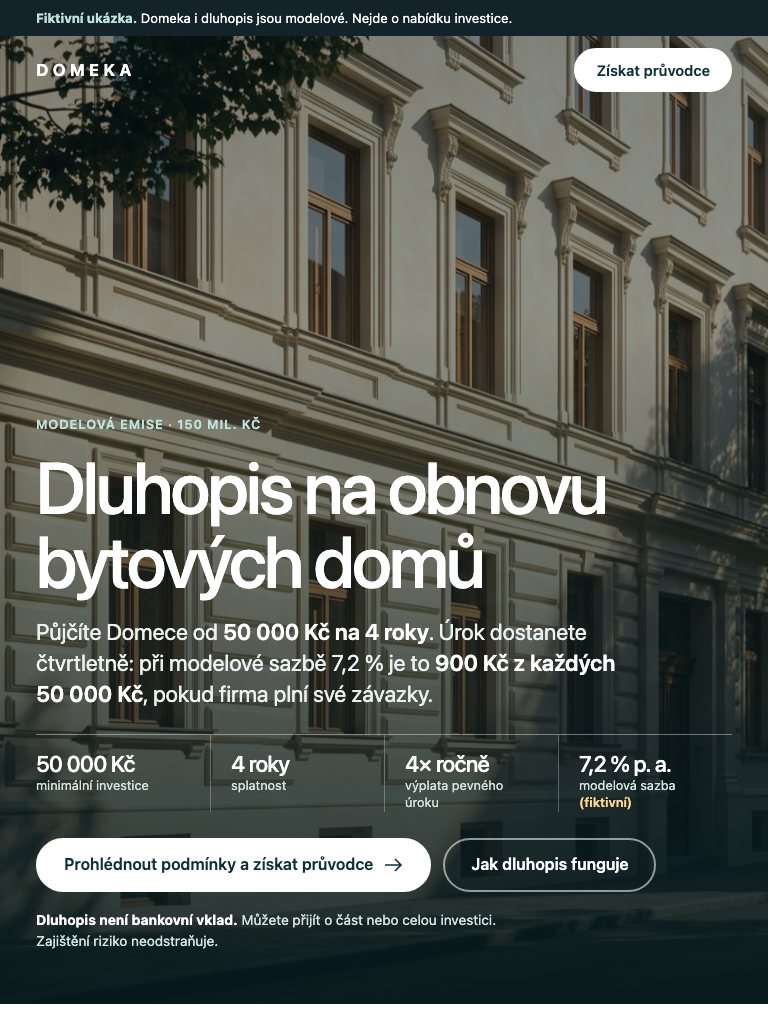
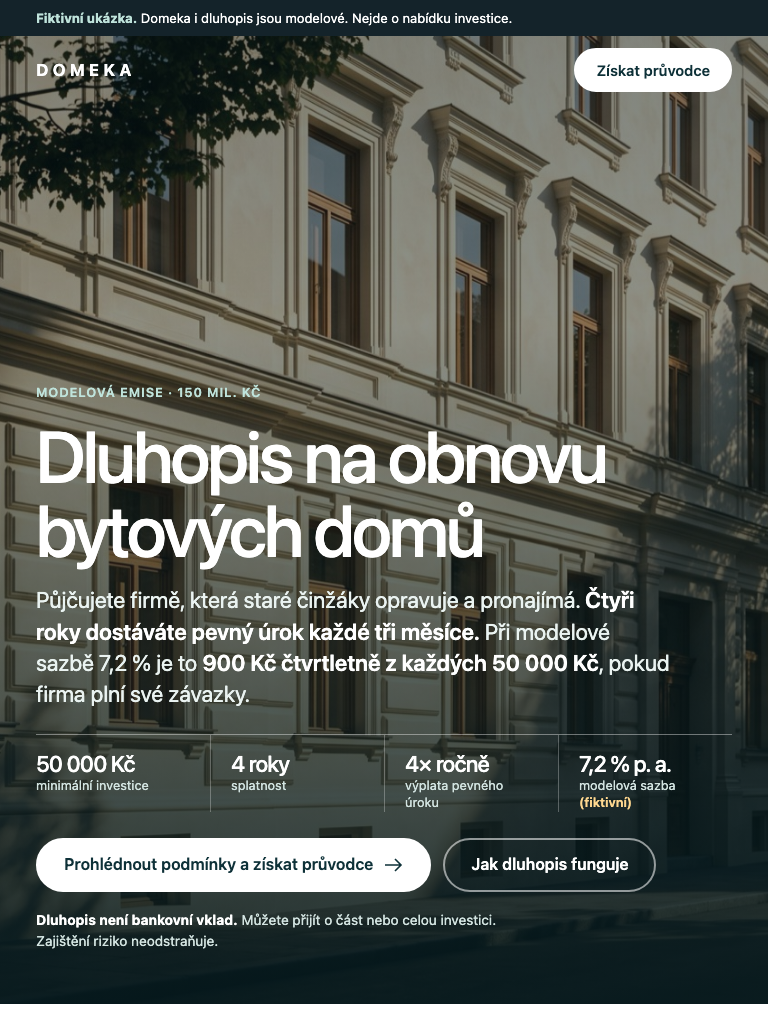
Odstraněna fotka interiéru, přepsané texty, sekce Co kupujete bez fotografie

Changed region(s): [[0.0312, 0.375, 0.875, 0.6875]]

diff --git a/index.html b/index.html
@@ -83,12 +83,15 @@ nav.main a.link:hover{text-decoration:underline}
 
 /* ---------- Co kupujete ---------- */
 .split{display:grid;gap:36px}
-@media (min-width:992px){.split{grid-template-columns:5fr 7fr;gap:80px;align-items:stretch}}
-.photo{margin:0;border-radius:var(--radius);overflow:hidden;background:var(--support);min-height:320px}
-.photo img{width:100%;height:100%;object-fit:cover}
-.photo.tall{aspect-ratio:4/5}
-@media (min-width:992px){.photo.tall{aspect-ratio:auto;height:100%;min-height:560px}}
+@media (min-width:992px){.split{grid-template-columns:5fr 7fr;gap:80px;align-items:start}}
 .head h2{margin-bottom:20px}
+.gt{display:grid;gap:0;margin-top:30px;border-top:1px solid var(--ink)}
+.gt>div{padding:18px 0;border-bottom:1px solid var(--line)}
+.gt h3{font-size:1rem;margin-bottom:8px}
+.gt ul{margin:0;padding:0;list-style:none;display:grid;gap:4px}
+.gt li{color:var(--muted);font-size:1rem;padding-left:18px;position:relative}
+.gt li:before{content:"";position:absolute;left:0;top:.62em;width:8px;height:2px;background:var(--ocean)}
+@media (min-width:640px){.gt{grid-template-columns:1fr 1fr}.gt>div:first-child{padding-right:24px;border-right:1px solid var(--line)}.gt>div+div{padding-left:24px}}
 .ledger{margin:30px 0 0;border-top:1px solid var(--ink)}
 .ledger .row{display:grid;gap:3px;padding:16px 0;border-bottom:1px solid var(--line)}
 .ledger dt{font-size:.88rem;color:var(--muted)}
@@ -252,7 +255,7 @@ footer{padding:52px 0 40px;border-top:1px solid var(--line)}
   <div class="wrap hero-body">
     <p class="eyebrow">Modelová emise · 150 mil. Kč</p>
     <h1 id="h1">Dluhopis na obnovu bytových domů</h1>
-    <p class="sub">Půjčíte Domece od <b>50 000 Kč na 4 roky</b>. Úrok dostanete čtvrtletně: při modelové sazbě 7,2 % je to <b>900 Kč z každých 50 000 Kč</b>, pokud firma plní své závazky.</p>
+    <p class="sub">Půjčujete firmě, která staré činžáky opravuje a pronajímá. <b>Čtyři roky dostáváte pevný úrok každé tři měsíce.</b> Při modelové sazbě 7,2 % je to <b>900 Kč čtvrtletně z každých 50 000 Kč</b>, pokud firma plní své závazky.</p>
     <ul class="facts" aria-label="Základní podmínky modelové emise">
       <li><b>50 000 Kč</b><span>minimální investice</span></li>
       <li><b>4 roky</b><span>splatnost</span></li>
@@ -271,12 +274,17 @@ footer{padding:52px 0 40px;border-top:1px solid var(--line)}
 <!-- ================= CO KUPUJETE ================= -->
 <section class="section" id="podminky" aria-labelledby="h-podm" style="border-top:0">
   <div class="wrap split">
-    <figure class="photo tall"><img src="assets/interior.jpg" width="640" height="893" loading="lazy" alt="Slunný obývací pokoj po rekonstrukci v činžovním domě, štuková římsa a dubová parketa"></figure>
     <div class="head">
       <p class="eyebrow">Co kupujete</p>
-      <h2 id="h-podm">Půjčku firmě, ne byt</h2>
-      <p class="lead">Dluhopis nedává podíl na firmě ani na domě. Dostanete úrok, a když vše dopadne dobře, na konci čtvrtého roku vám Domeka vrátí půjčených 50 000 Kč.</p>
-      <dl class="ledger">
+      <h2 id="h-podm">Jednoduchá půjčka, jasné podmínky</h2>
+      <p class="lead">Kupujete dluhopis: půjčujete peníze firmě Domeka. Nekupujete byt ani podíl ve firmě. Za půjčku dostáváte pevný úrok každé čtvrtletí a na konci čtvrtého roku má firma vrátit celou půjčenou částku.</p>
+      <div class="gt">
+        <div><h3>Co dostanete</h3><ul><li>Pevný úrok čtyřikrát ročně</li><li>Předem známý termín vrácení peněz</li><li>Zajištění nemovitostmi firmy</li></ul></div>
+        <div><h3>Co přebíráte vy</h3><ul><li>Riziko, že firma nezaplatí</li><li>Peníze vázané čtyři roky</li><li>Žádné pojištění jako u vkladu</li></ul></div>
+      </div>
+    </div>
+    <div>
+      <dl class="ledger" style="margin-top:0">
         <div class="row"><dt>Emitent</dt><dd>Domeka <span class="tag">fiktivní</span></dd></div>
         <div class="row"><dt>Cíl emise</dt><dd><strong>150 mil. Kč</strong></dd></div>
         <div class="row"><dt>Minimální investice</dt><dd><strong>50 000 Kč</strong></dd></div>
@@ -295,8 +303,8 @@ footer{padding:52px 0 40px;border-top:1px solid var(--line)}
   <img src="assets/courtyard.jpg" width="1600" height="893" loading="lazy" alt="Dvorek starého činžovního domu s lešením, oprýskanou omítkou a stohy řeziva">
   <div class="wrap">
     <p class="eyebrow" style="color:var(--signal)">Kam peníze jdou</p>
-    <h2 id="h-band">Do domů, které teprve potřebují opravu</h2>
-    <p>Domeka podle zadání nakupuje starší bytové domy, opravuje je a byty pronajímá. Z emise by financovala nákupy a stavební práce. Snímek ukazuje, jak taková oprava vypadá. Dům firmy to není.</p>
+    <h2 id="h-band">Z vašich peněz se stávají opravené domy</h2>
+    <p>Domeka kupuje starší činžáky, opravuje je a byty pronajímá. Z emise by platila nákupy a stavební práce: střechy, rozvody, okna. Nájemné z opravených bytů je zdroj, ze kterého firma platí úroky.</p>
   </div>
 </section>
 
@@ -304,25 +312,25 @@ footer{padding:52px 0 40px;border-top:1px solid var(--line)}
 <section class="section" id="jak" aria-labelledby="h-jak" style="border-top:0">
   <div class="wrap">
     <div class="sec-head">
-      <div><p class="eyebrow">Z čeho se platí</p><h2 id="h-jak">Co musí Domeka vybrat, aby vám zaplatila</h2></div>
-      <p class="lead">Odpověď na nejdůležitější otázku začátečníka: odkud se vezmou peníze na úroky. Počítáme s plně upsanou emisí a modelovými čísly.</p>
+      <div><p class="eyebrow">Z čeho se platí</p><h2 id="h-jak">Odkud se berou peníze na vaše úroky</h2></div>
+      <p class="lead">Nejčastější otázka začátečníka. Odpovídáme počtem, ne slibem. Počítáme s plně upsanou emisí a modelovými čísly.</p>
     </div>
     <div class="pay">
       <div>
-        <div class="stat"><div class="n">900 000 Kč<small>měsíčně</small></div><p><b>Úroky z 150 mil. Kč při sazbě 7,2 %</b> jsou 10,8 mil. Kč ročně. To musí firma vydělat ještě předtím, než zaplatí opravy, správu domů, pojištění a daně.</p></div>
-        <div class="stat"><div class="n">≈ 64 bytů<small>pronajatých</small></div><p>Při modelovém nájmu <b>14 000 Kč měsíčně</b> musí být pronajato asi 64 bytů, jen aby se zaplatily úroky. Ptejte se proto, kolik bytů firma opravdu vlastní a kolik jich má obsazených. V této ukázce to není známo.</p></div>
+        <div class="stat"><div class="n">900 000 Kč<small>měsíčně</small></div><p><b>Tolik by plně upsaná emise stála na úrocích.</b> Při sazbě 7,2 % je to 10,8 mil. Kč ročně. Tohle musí firma vydělat dřív, než zaplatí opravy, správu domů, pojištění a daně.</p></div>
+        <div class="stat"><div class="n">≈ 64 bytů<small>pronajatých</small></div><p>Při modelovém nájmu <b>14 000 Kč měsíčně</b> musí být pronajato asi 64 bytů, jen aby se pokryly úroky. Proto se vždy ptejte, kolik bytů firma vlastní a kolik z nich je obsazených. V této ukázce to není známo.</p></div>
       </div>
       <ol class="flow">
-        <li><h3>Půjčíte peníze</h3><p>Koupíte dluhopis od 50 000 Kč. Peníze jdou emitentovi.</p></li>
-        <li><h3>Domeka koupí a opraví dům</h3><p>Starší činžák, který potřebuje novou střechu, rozvody nebo okna.</p></li>
-        <li><h3>Byty pronajímá</h3><p>Nájemné je hlavní příjem, ze kterého firma platí vám i další náklady.</p></li>
-        <li><h3>Platí úrok a po 4 letech vrací jistinu</h3><p>Pokud jí příjmy a zajištění stačí. Záruka to není.</p></li>
+        <li><h3>Půjčíte firmě peníze</h3><p>Koupíte dluhopis od 50 000 Kč.</p></li>
+        <li><h3>Domeka koupí a opraví dům</h3><p>Starý činžák dostane novou střechu, rozvody a okna.</p></li>
+        <li><h3>Opravené byty pronajme</h3><p>Nájemné je hlavní příjem, ze kterého firma platí úroky i provoz domů.</p></li>
+        <li><h3>Vyplácí úrok, po 4 letech vrací peníze</h3><p>Pokud jí příjmy a zajištění stačí. Záruka to není.</p></li>
       </ol>
     </div>
 
     <div class="you" aria-labelledby="h-you">
       <div>
-        <p class="eyebrow" id="h-you">Váš příklad (model)</p>
+        <p class="eyebrow" id="h-you">Co by to znamenalo pro vás</p>
         <div class="big">900 Kč<small> čtvrtletně</small></div>
         <p class="fine" style="margin-top:14px">z modelových 50 000 Kč při sazbě 7,2 % p. a., před zdaněním a jen když emitent své závazky plní. Nejde o slib výplaty.</p>
       </div>
@@ -335,20 +343,20 @@ footer{padding:52px 0 40px;border-top:1px solid var(--line)}
     </div>
 
     <div class="compare">
-      <div><h3>Bankovní vklad</h3><p>Vklady v bance jsou pojištěny do zákonného limitu. Dluhopis takové pojištění nemá.</p></div>
-      <div><h3>Tento dluhopis</h3><p>Výplaty i jistina závisejí na hospodaření Domeky a na hodnotě zajištění. Spořicí účet nenahrazuje.</p></div>
+      <div><h3>Proč to není spořicí účet</h3><p>Vklady v bance jsou pojištěny do zákonného limitu. Dluhopis takové pojištění nemá.</p></div>
+      <div><h3>Za co dluhopis stojí</h3><p>Za vyšší úrok platíte vyšším rizikem. Výplaty i jistina závisejí na hospodaření Domeky a na hodnotě zajištění.</p></div>
     </div>
   </div>
 </section>
 
-<div class="cta-strip"><div class="wrap"><p>Než půjdete dál, zjistěte, na co se ptát před koupí firemního dluhopisu.</p><a class="btn" href="#pruvodce">Získat pět otázek <svg viewBox="0 0 18 14" fill="none" stroke="currentColor" stroke-width="1.6" aria-hidden="true"><path d="M0 7h16M10 1l6 6-6 6"/></svg></a></div></div>
+<div class="cta-strip"><div class="wrap"><p>Než se rozhodnete, vezměte si pět otázek, které si před firemním dluhopisem klade každý zkušený investor.</p><a class="btn" href="#pruvodce">Získat pět otázek <svg viewBox="0 0 18 14" fill="none" stroke="currentColor" stroke-width="1.6" aria-hidden="true"><path d="M0 7h16M10 1l6 6-6 6"/></svg></a></div></div>
 
 <!-- ================= RIZIKA ================= -->
 <section class="section" id="rizika" aria-labelledby="h-rizika" style="border-top:0">
   <div class="wrap">
     <div class="sec-head">
       <div><p class="eyebrow">Rizika</p><h2 id="h-rizika">Co se může pokazit</h2></div>
-      <p class="lead">Říkáme to dřív, než se rozhodnete. Zajištěný dluhopis neznamená dluhopis bez rizika.</p>
+      <p class="lead">Kdo o rizicích mluví dopředu, zaslouží si větší důvěru. Proto jsou tady, a ne v drobném písmu. Zajištěný dluhopis neznamená dluhopis bez rizika.</p>
     </div>
     <ol class="risks">
       <li><span class="n">01</span><h3>Domeka nemusí splatit</h3><p>Nájemné může klesnout, opravy se prodražit a byty zůstat prázdné. Pak nebude z čeho platit úroky ani jistinu.</p></li>
@@ -367,7 +375,7 @@ footer{padding:52px 0 40px;border-top:1px solid var(--line)}
     <div>
       <p class="eyebrow">Průvodce zdarma · návrh</p>
       <h2 id="h-mag" style="max-width:15ch">Pět otázek před nákupem firemního dluhopisu</h2>
-      <p class="lead" style="margin-top:20px">Dvě strany A4, které si můžete vzít k rozhovoru s poradcem nebo do banky. U každé otázky je napsáno, kde odpověď hledat a co je varovný signál.</p>
+      <p class="lead" style="margin-top:20px">Dvě strany A4 pro člověka, který dluhopis ještě nikdy nekoupil. U každé otázky je napsáno, kde odpověď hledat a co je varovný signál. Vezměte je s sebou k poradci, do banky nebo k dětem, které se v tom vyznají.</p>
       <div class="sheet" aria-label="Náhled první strany průvodce">
         <div class="st"><span>Pět otázek před nákupem</span><span>Strana 1</span></div>
         <ol>
@@ -385,8 +393,8 @@ footer{padding:52px 0 40px;border-top:1px solid var(--line)}
     <div class="card" id="form-card">
       <form id="step1" novalidate aria-labelledby="s1-title">
         <div class="stepper" aria-hidden="true"><span>Krok 1 ze 2</span><i class="on"></i><i></i></div>
-        <h3 id="s1-title" tabindex="-1">Dvě krátké otázky, bez kontaktu</h3>
-        <p>Podle odpovědí vám ukážeme, co dává smysl dál. E-mail nechceme.</p>
+        <h3 id="s1-title" tabindex="-1">Dvě otázky a víte, co dál</h3>
+        <p>Zabere to půl minuty. E-mail ani telefon teď nechceme.</p>
 
         <fieldset>
           <legend>S jakou částkou přibližně počítáte?</legend>
@@ -473,9 +481,9 @@ footer{padding:52px 0 40px;border-top:1px solid var(--line)}
 <!-- ================= ZÁVĚR ================= -->
 <section class="section closing" aria-labelledby="h-close" style="border-top:0">
   <div class="wrap inner">
-    <div><p class="eyebrow">Další krok</p><h2 id="h-close">Nejdřív podmínky. Rozhodnutí může počkat.</h2></div>
+    <div><p class="eyebrow">Další krok</p><h2 id="h-close">Nejdřív pochopit. Potom se rozhodnout.</h2></div>
     <div>
-      <p class="lead">Žádné odpočítávání ani časově omezené akce. Začněte pěti otázkami a vraťte se, až budete mít odpovědi.</p>
+      <p class="lead">Nikdo vás nehoní: žádné odpočítávání ani poslední volná místa. Začněte pěti otázkami a vraťte se, až budete mít odpovědi.</p>
       <div class="hero-actions"><a class="btn" href="#pruvodce">Získat průvodce</a><a class="btn ghost" href="#rizika">Přečíst rizika</a></div>
     </div>
   </div>
@@ -506,17 +514,17 @@ footer{padding:52px 0 40px;border-top:1px solid var(--line)}
     return t==='soon'?'qualified':'nurture';
   }
   var copy={
-    qualified:{kicker:'Možný zájem o konzultaci',title:'Vaše odpovědi odpovídají modelové investici',
-      text:'<p>Počítáte s částkou od 50 000 Kč a v blízké době. V ostré verzi by dávalo smysl projít podmínky s poradcem. Je to jen vaše volba a nic z toho nezakládá nárok na investici.</p>',
+    qualified:{kicker:'Možný zájem o konzultaci',title:'Máte předpoklady pro rozhovor s poradcem',
+      text:'<p>Počítáte s částkou od 50 000 Kč a v blízké době. Poradce by s vámi prošel podmínky, zajištění i rizika a odpověděl na otázky z průvodce. K ničemu vás to nezavazuje a rozhodnutí zůstává na vás.</p>',
       crm:'Kvalifikovaný kontakt: dobrovolně uvedl investiční kapacitu od 50 000 Kč a blízký termín. Další krok: nabídka konzultace, vždy s ověřením vhodnosti.'},
-    nurture:{kicker:'Vzdělávací kontakt',title:'Dobře, nemusíte spěchat',
-      text:'<p>Částka by modelové minimum splňovala, ale rozhodnutí je zatím daleko. Průvodce vám pomůže připravit se. Nebudeme vás tlačit k rozhovoru s poradcem.</p>',
+    nurture:{kicker:'Vzdělávací kontakt',title:'Správně, nespěchejte',
+      text:'<p>Částka by na minimum stačila, ale rozhodujete se dlouhodobě. V ostré verzi by přišel jen průvodce, bez telefonátů. Až budete chtít jít dál, poradce vám pomůže.</p>',
       crm:'Vzdělávací kontakt: kapacita od 50 000 Kč, termín vzdálený nebo nejistý. Další krok: pouze informační obsah, bez aktivního obchodního kontaktu.'},
-    below:{kicker:'Pod modelovým minimem',title:'Modelové minimum je 50 000 Kč',
-      text:'<p>S nižší částkou by se do této emise nešlo zapojit. To není chyba. Průvodce můžete využít jako obecnou pomůcku, jak se ptát na firemní dluhopisy. Poradce vám nenabízíme.</p>',
+    below:{kicker:'Pod modelovým minimem',title:'Do této emise by to zatím nestačilo',
+      text:'<p>Minimum je 50 000 Kč. Průvodce se vám i tak hodí u jakéhokoli firemního dluhopisu. Poradce vám nenabízíme, ať neztrácíte čas.</p>',
       crm:'Vzdělávací kontakt pod minimem: nepočítá se mezi kvalifikované investory. Další krok: žádný obchodní kontakt.'},
-    info:{kicker:'Sbíráte informace',title:'Skvělé, začněte u základů',
-      text:'<p>Zatím se jen rozhlížíte, a to je rozumný začátek. Přečtěte si výpočet a rizika výše. Průvodce vám dá otázky, na které se vyplatí znát odpověď, než vůbec začnete uvažovat o částce.</p>',
+    info:{kicker:'Sbíráte informace',title:'Dobrý začátek',
+      text:'<p>Kdo se nejdřív ptá, rozhoduje se klidněji. Projděte si výpočet a rizika výše a pět otázek z průvodce si nechte na chvíli, kdy budete řešit částku.</p>',
       crm:'Informační kontakt: částka nespecifikována. Další krok: pouze informační obsah, bez aktivního obchodního kontaktu.'}
   };
 

diff --git a/DESIGN_DECISIONS.md b/DESIGN_DECISIONS.md
@@ -6,7 +6,7 @@ Datum: 24. 11. 2026. Fiktivní klient, fiktivní dluhopis.
 
 | # | Oblast | Problém | Řešení |
 |---|---|---|---|
-| 1 | Vizuál | Hlavní obraz byl CSS pseudoilustrace domu s gradienty, působila jako šablona. | Celoplošná fotografie opravené činžovní fasády (AI ilustrace, označená v patičce), druhá fotografie dvorku před opravou a interiér po opravě. Bez popisků pod obrázky. |
+| 1 | Vizuál | Hlavní obraz byl CSS pseudoilustrace domu s gradienty, působila jako šablona. | Celoplošná fotografie opravené činžovní fasády (AI ilustrace, označená v patičce), druhá fotografie dvorku před opravou. Bez popisků pod obrázky. |
 | 2 | Vizuál | Plovoucí karta přes obraz, stíny, fixní odznak, zelenobéžová paleta s limetkou. | Plochý povrch, čáry místo stínů, jedna CTA barva (ocean `#123D44`). |
 | 3 | Mobil / UX | Hero na 375 px nedával dohromady produkt, minimum, dobu a další krok. | H1, 4 podmínky ve 2×2 mřížce a CTA jsou v prvním viewportu. |
 | 4 | Konverze | Kvalifikační formulář byl jeden blok s povinným e-mailem a bez větvení. | Dvoukrokový funnel. Dvě otázky bez kontaktu, potom čtyři různé výsledky a nepovinný kontakt. |
@@ -54,3 +54,7 @@ Do `assets/` patří licencovaná fotografie staršího městského činžovníh
 ## 6. Redesign 24. 11. (odpoledne)
 
 Původní verze s výkresem působila slabě. Změny: celoplošný hero s fotografií a směrovým stínováním (text vlevo), velká typografie, čísla v „ledgeru“ místo karet, sekce „Z čeho se platí“ s konkrétním výpočtem (úroky z 150 mil. Kč = 900 000 Kč měsíčně = ≈ 64 pronajatých bytů při modelovém nájmu 14 000 Kč), náhled první strany průvodce, mezi-CTA po výpočtu a mobilní lišta s odkazem na průvodce (skrývá se u formuláře). Texty jsou konkrétní a vycházejí z čísel, ne z obecných slibů. Taste skill: bez popisků pod obrázky, jedna sekce = jedna myšlenka, stejné okraje, hover odezva tlačítek.
+
+## 7. Úprava po zpětné vazbě
+
+Fotografie interiéru byla vyřazena, protože do příběhu nezapadala. Sekce „Co kupujete“ je nově text a ledger, doplněný srovnáním „Co dostanete / Co přebíráte vy“. Texty jsou přepsané copywriterským tónem: konkrétní čísla, přímé oslovení a poctivé vyvážení výhod a rizik.

diff --git a/README.md b/README.md
@@ -4,7 +4,7 @@
 
 Fiktivní klient a fiktivní dluhopis, vytvořeno pro praktický úkol (Junior AI Developer). Statický web v češtině: HTML, CSS a trocha JavaScriptu, bez knihoven, bez backendu, bez externích požadavků.
 
-- Vstup: `index.html`, fotografie v `assets/` (hero, interiér, dvorek)
+- Vstup: `index.html`, fotografie v `assets/` (hero a dvorek před opravou)
 - Rozhodnutí: `DESIGN_DECISIONS.md`, `DESIGN_REFERENCE_LOCK.md`
 - Funnel a hypotézy: `CRO_FUNNEL_SPEC.md` a sekce níže
 - QA: `QA_RELEASE_CHECKLIST.md`, `screenshots/`
@@ -42,7 +42,7 @@ Doplněno a **fiktivní**:
 - jméno emitenta Domeka a popis podnikání,
 - lead magnet a kvalifikační otázky,
 - modelový nájem 14 000 Kč a z něj spočtených ≈ 64 pronajatých bytů (kolik bytů musí být pronajato, aby se zaplatily úroky z 150 mil. Kč),
-- fotografie: tři ilustrační snímky vytvořené umělou inteligencí (Gamma). Nezobrazují nemovitosti Domeky, což říká patička. Před ostrým spuštěním je nahradit licencovanými fotografiemi.
+- fotografie: dva ilustrační snímky vytvořené umělou inteligencí (Gamma). Nezobrazují nemovitosti Domeky, což říká patička. Před ostrým spuštěním je nahradit licencovanými fotografiemi.
 
 Žádné reference, ocenění, počty investorů, loga regulátorů ani pojišťoven.
 
